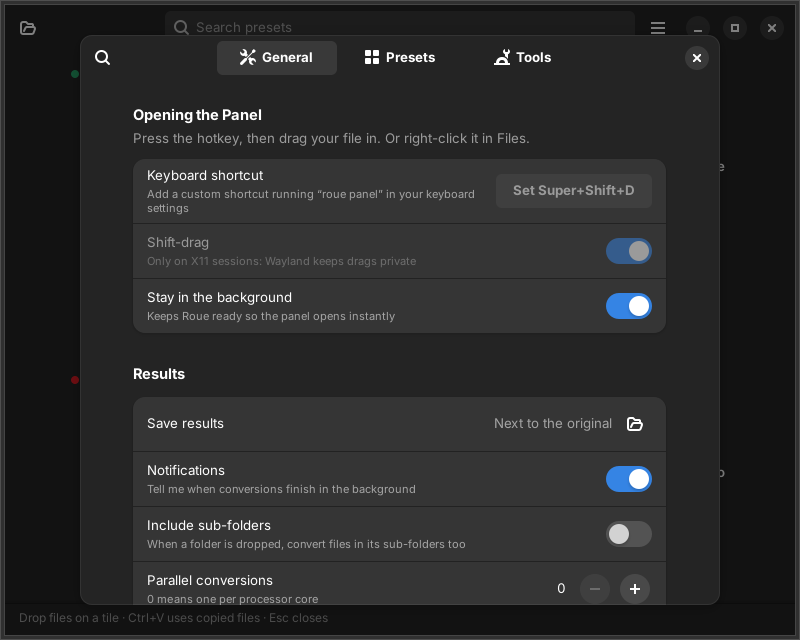
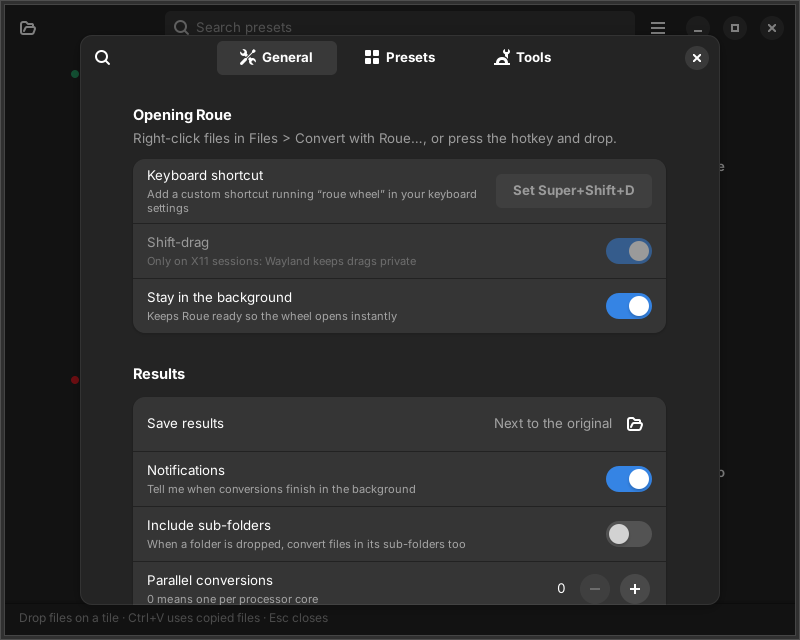
docs: finish the wheel landing page; preferences talk about the wheel
The hero shows a looping wheel (HTML/CSS/SVG, still under reduced
motion). Preferences and the session hint now say how to open the wheel,
and the preferences screenshots are retaken.

Claude-Session: https://claude.ai/code/session_019Uz6ZP6XZbhn5E2NqqDYJE

Changed region(s): [[0.1875, 0.1562, 0.75, 0.25], [0.4375, 0.2812, 0.5938, 0.3125], [0.3438, 0.4688, 0.5, 0.5]]

diff --git a/website/index.html b/website/index.html
@@ -220,7 +220,7 @@
         <header class="section-head">
           <p class="kicker">Built in</p>
           <h2 id="presets-title">Ready-made presets, sensible defaults</h2>
-          <p>Each tile does one thing well. Turn off the ones you never use, tweak the rest, or <a href="docs/custom-presets.html">write your own</a>.</p>
+          <p>Each preset does one thing well. Turn off the ones you never use, tweak the rest, or <a href="docs/custom-presets.html">write your own</a>.</p>
         </header>
         <div class="kinds">
 <!-- presets:start -->
@@ -318,7 +318,7 @@ roue setup</code></pre>
         </header>
         <div class="shots">
           <figure class="shot wide">
-            <img src="assets/screenshots/wheel.png" width="1280" height="720" loading="lazy" alt="The Roue wheel open over GNOME Files after right-clicking a screen recording: slices for MP4, GIF, WebM, Under 10 MB, Under 25 MB, Smaller video, Mute and More…, around a dark centre showing the file name.">
+            <img src="assets/screenshots/wheel.png" width="1280" height="720" loading="lazy" alt="The Roue wheel open over GNOME Files after right-clicking a screen recording: slices for MP4, GIF, WebM, Under 10 MB, Under 25 MB, Smaller video, Mute and More…. The pointer is on Under 10 MB, which turns red while the centre explains what it does.">
             <figcaption>The wheel, opened from Files on a screen recording</figcaption>
           </figure>
           <figure class="shot main">

diff --git a/website/assets/style.css b/website/assets/style.css
@@ -354,6 +354,8 @@ kbd {
   .wd-t { font-size: 15.5px; }
   .wd-s { font-size: 12px; }
   .wd-hs { font-size: 11.5px; }
+  .wd-note { font-size: 3.4cqw; }
+  .wd-note-buttons span { font-size: 3cqw; }
 }
 
 .wd-file {

diff --git a/src/roue/ui/preferences.py b/src/roue/ui/preferences.py
@@ -1,4 +1,4 @@
-"""Preferences: how the panel opens, where results go, presets, and tools."""
+"""Preferences: how Roue opens, where results go, presets, and tools."""
 
 from __future__ import annotations
 
@@ -17,7 +17,7 @@ if TYPE_CHECKING:
     from .application import RoueApplication
 
 EXAMPLE_PRESET = """\
-# A custom preset. Copy this file, change it, and reopen the panel.
+# A custom preset. Copy this file, change it, and reopen the wheel.
 # Full reference: {website}docs/custom-presets.html
 id: my-webp-thumbnail
 name: Thumbnail
@@ -65,7 +65,7 @@ class PreferencesDialog(Adw.PreferencesDialog):
         page = Adw.PreferencesPage(title="General", icon_name="preferences-system-symbolic")
 
         opening = Adw.PreferencesGroup(
-            title="Opening the Panel", description=session.trigger_explanation()
+            title="Opening Roue", description=session.trigger_explanation()
         )
         self.hotkey_row = Adw.ActionRow(title="Keyboard shortcut")
         self.hotkey_button = Gtk.Button(valign=Gtk.Align.CENTER)
@@ -76,7 +76,7 @@ class PreferencesDialog(Adw.PreferencesDialog):
 
         shift = self._switch(
             "Shift-drag",
-            "Hold Shift while dragging any file to pop the panel up",
+            "Hold Shift while dragging any file to open the wheel around it",
             "shift_drag",
         )
         if session.session_type() != "x11":
@@ -89,7 +89,7 @@ class PreferencesDialog(Adw.PreferencesDialog):
         opening.add(
             self._switch(
                 "Stay in the background",
-                "Keeps Roue ready so the panel opens instantly",
+                "Keeps Roue ready so the wheel opens instantly",
                 "stay_in_background",
             )
         )

diff --git a/src/roue/integrations/session.py b/src/roue/integrations/session.py
@@ -31,10 +31,10 @@ def has_display() -> bool:
 
 
 def trigger_explanation() -> str:
-    """One line telling people how they'll open the panel in this session."""
+    """One line telling people how they'll open the wheel in this session."""
     kind = session_type()
     if kind == "x11":
-        return "Hold Shift while dragging a file to pop the panel up, or press the hotkey."
+        return "Hold Shift while dragging a file to open the wheel, or press the hotkey."
     if kind == "wayland":
-        return "Press the hotkey, then drag your file in. Or right-click it in Files."
+        return "Right-click files in Files > Convert with Roue…, or press the hotkey and drop."
     return "No desktop session detected: use 'roue convert' from the terminal."

diff --git a/src/roue/integrations/x11_drag.py b/src/roue/integrations/x11_drag.py
@@ -1,4 +1,4 @@
-"""Shift-drag on X11: pop the panel up when a drag starts with Shift held.
+"""Shift-drag on X11: open the wheel when a drag starts with Shift held.
 
 Every X11 drag-and-drop source takes ownership of the ``XdndSelection``
 selection when a drag starts. XFixes tells us when that happens; we then
